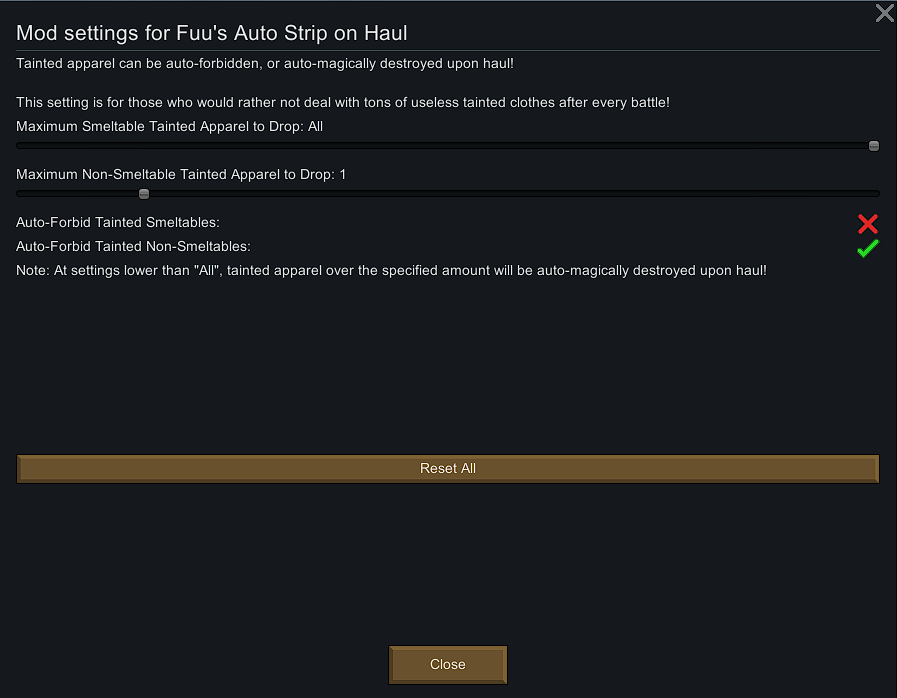
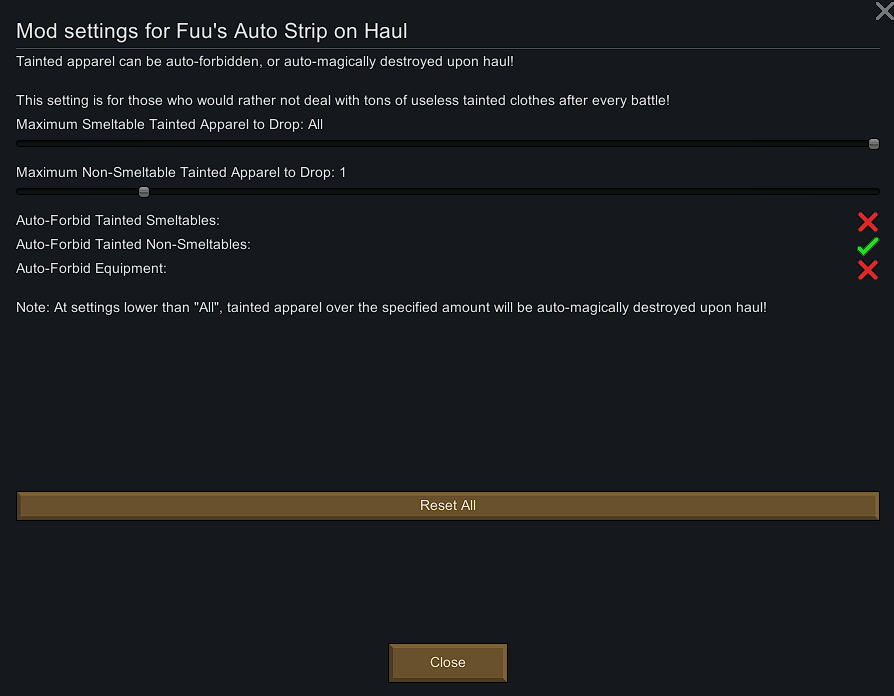
1.2
Added forbid equipment.
Improved logo and screenshot.

diff --git a/Source/Patches/Pawn_CarryTracker_TryStartCarry.cs b/Source/Patches/Pawn_CarryTracker_TryStartCarry.cs
@@ -22,7 +22,7 @@ namespace AutoStripOnHaul
             {
                 if (corpse.InnerPawn.equipment != null)
                 {
-                    corpse.InnerPawn.equipment.DropAllEquipment(corpse.PositionHeld, forbid: false);
+                    corpse.InnerPawn.equipment.DropAllEquipment(corpse.PositionHeld, forbid: Settings.ForbidEquipment);
                 }
                 if (corpse.InnerPawn.inventory != null)
                 {
@@ -30,13 +30,13 @@ namespace AutoStripOnHaul
                 }
                 if (corpse.InnerPawn.apparel != null)
                 {
-                    DropAllApparel(corpse.InnerPawn.apparel, corpse.PositionHeld, forbid: false, corpse.InnerPawn.Destroyed);
+                    DropAllApparel(corpse.InnerPawn.apparel, corpse.PositionHeld, corpse.InnerPawn.Destroyed);
                 }
             }
         }
 
         //Drops all smeltable apparel & a configurable amount of non-smeltable apparel
-        private static void DropAllApparel(Pawn_ApparelTracker apparelTracker, IntVec3 pos, bool forbid = true, bool dropLocked = true)
+        private static void DropAllApparel(Pawn_ApparelTracker apparelTracker, IntVec3 pos, bool dropLocked = true)
         {
             int nonsmeltablesDropped = 0;
             int smeltablesDropped = 0;
@@ -63,15 +63,19 @@ namespace AutoStripOnHaul
                 }
             }
             for (int j = 0; j < dropList.Count; j++)
-            {
+            {                
                 if ((Settings.ForbidTaintedNonSmeltables && !dropList[j].Smeltable && dropList[j].WornByCorpse) ||
                     (Settings.ForbidTaintedSmeltables && dropList[j].Smeltable && dropList[j].WornByCorpse))
                 {
-                    apparelTracker.TryDrop(dropList[j], out Apparel _, pos, true);
+                    apparelTracker.TryDrop(dropList[j], out Apparel _, pos, forbid: true);
+                }
+                else if (Settings.ForbidEquipment && !dropList[j].WornByCorpse)
+                {
+                    apparelTracker.TryDrop(dropList[j], out Apparel _, pos, forbid: true);
                 }
                 else
                 {
-                    apparelTracker.TryDrop(dropList[j], out Apparel _, pos, forbid);
+                    apparelTracker.TryDrop(dropList[j], out Apparel _, pos, forbid: false);
                 }
             }
             apparelTracker.DestroyAll(); //Destroy remaining unwanted non-smeltables

diff --git a/Source/Settings/SettingsData.cs b/Source/Settings/SettingsData.cs
@@ -9,17 +9,20 @@ namespace AutoStripOnHaul
         public static int NonsmeltableApparelToDrop => nonsmeltableApparelToDrop;
         public static bool ForbidTaintedSmeltables => forbidTaintedSmeltables;
         public static bool ForbidTaintedNonSmeltables => forbidTaintedNonSmeltables;
+        public static bool ForbidEquipment => forbidEquipment;
 
         private static int smeltableApparelToDrop;
         private static int nonsmeltableApparelToDrop;
         private static bool forbidTaintedSmeltables;
         private static bool forbidTaintedNonSmeltables;
+        private static bool forbidEquipment;
         private static void Initialize()
         {
             smeltableApparelToDrop = DropAll;
             nonsmeltableApparelToDrop = DropAll;
             forbidTaintedSmeltables = false;
             forbidTaintedNonSmeltables = true;
+            forbidEquipment = false;
         }
         public override void ExposeData()
         {
@@ -28,6 +31,7 @@ namespace AutoStripOnHaul
             Scribe_Values.Look(ref nonsmeltableApparelToDrop, "NonsmeltableApparelToDrop", DropAll);
             Scribe_Values.Look(ref forbidTaintedSmeltables, "ForbidTaintedSmeltables", false);
             Scribe_Values.Look(ref forbidTaintedNonSmeltables, "ForbidTaintedNonSmeltables", true);
+            Scribe_Values.Look(ref forbidEquipment, "ForbidEquipment", false);
         }
         public Settings()
         {

diff --git a/Source/Settings/Settings.cs b/Source/Settings/Settings.cs
@@ -44,6 +44,7 @@ namespace AutoStripOnHaul
             //Forbid Checkboxes
             listingStandard.CheckboxLabeled("AutoStripOnHaul_ForbidTaintedSmeltables".Translate() + ":", ref forbidTaintedSmeltables);
             listingStandard.CheckboxLabeled("AutoStripOnHaul_ForbidTaintedNonSmeltables".Translate() + ":", ref forbidTaintedNonSmeltables);
+            listingStandard.CheckboxLabeled("AutoStripOnHaul_ForbidEquipment".Translate() + ":", ref forbidEquipment);
 
             listingStandard.Gap(15f);
             listingStandard.Label("AutoStripOnHaul_SettingsDescriptionThree".Translate());
